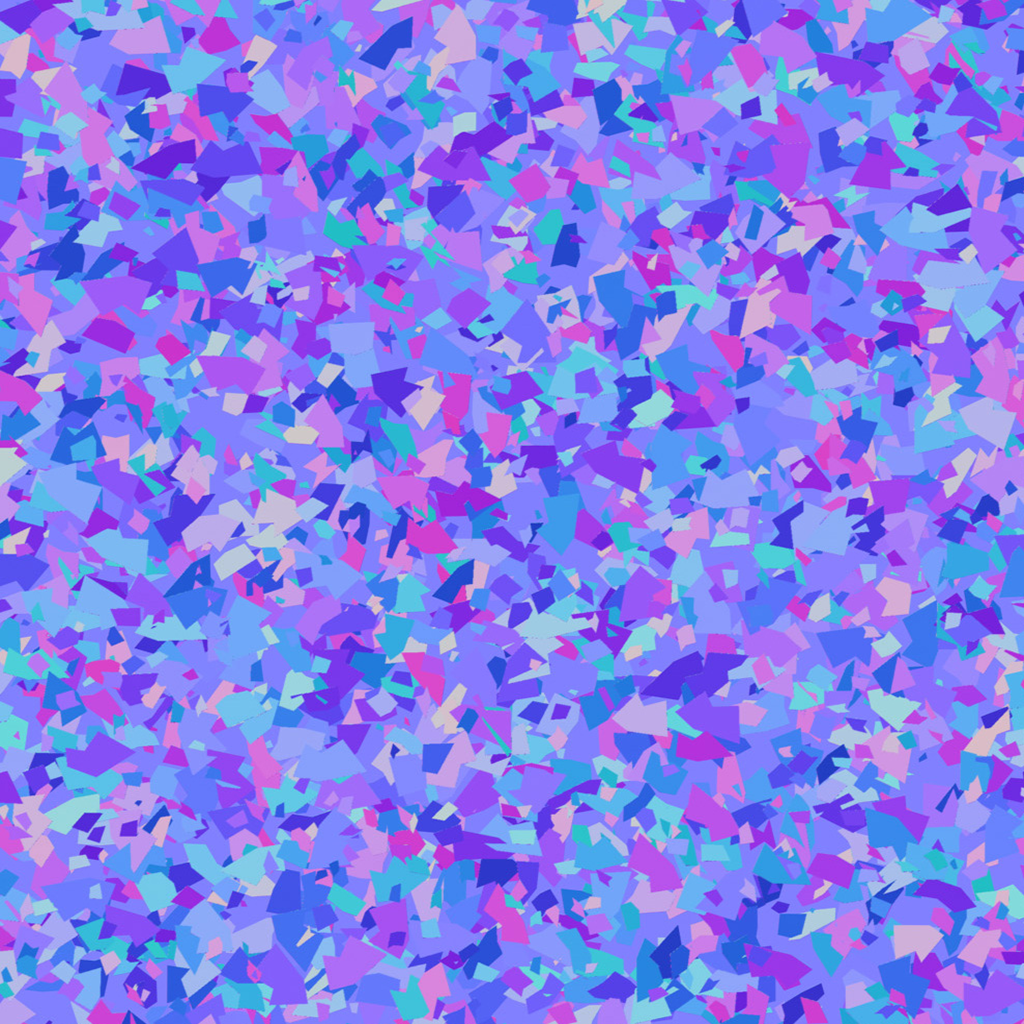
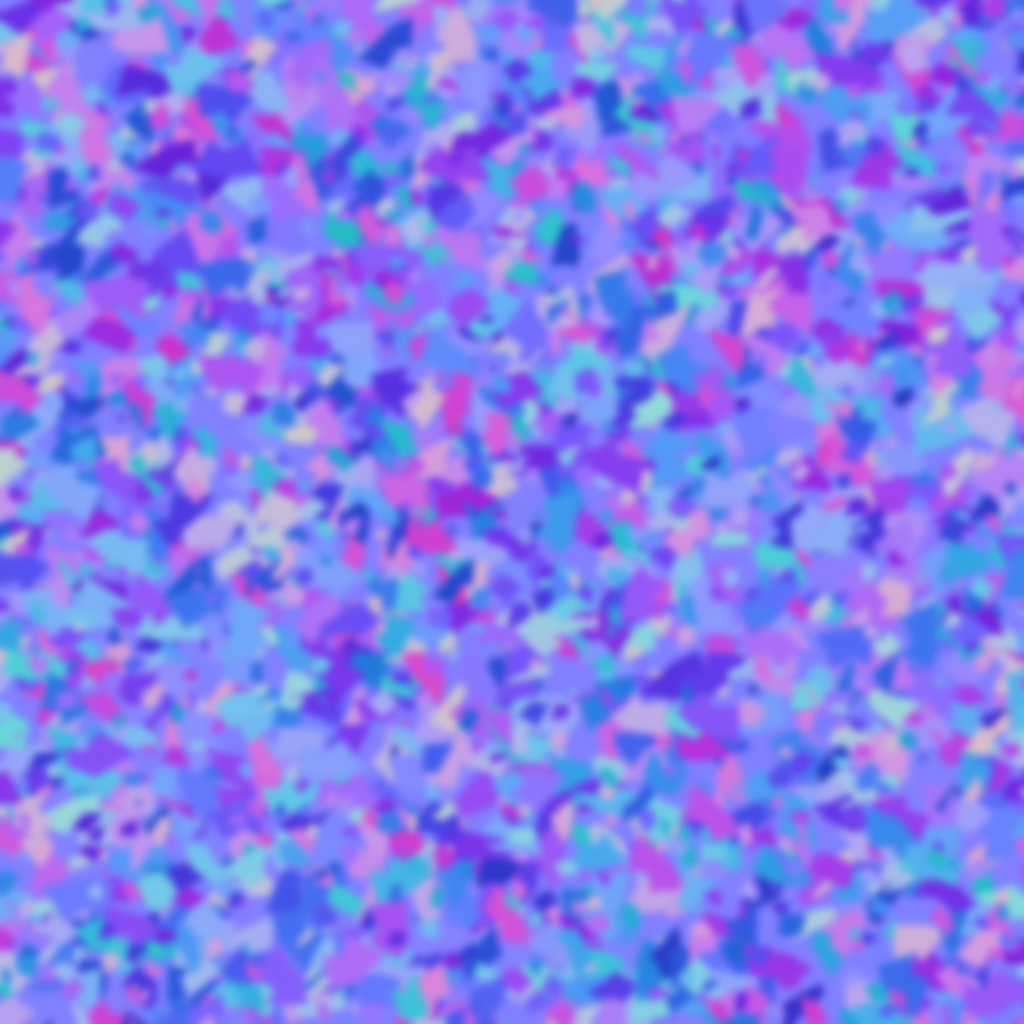
+ Outputs, fixes

diff --git a/ndf/ndf/ndf/main.cpp b/ndf/ndf/ndf/main.cpp
@@ -194,8 +194,9 @@ void RenderJacobian(sf::Image& image, sf::Image& normalMap, int width, int heigh
 
 void CurvedElementsIntegrationThread(int threadNumber, int bucketHeight, int width, int height, int mX, int mY, GaussianElementData * gaussians, float * ndf)
 {
-	glm::vec2 regionSize = glm::vec2(12, 12);
-	glm::vec2 from = glm::vec2(64, 64);	
+	glm::vec2 regionCenter = glm::vec2(256, 256);
+	glm::vec2 regionSize = glm::vec2(256, 256);
+	glm::vec2 from = regionCenter - regionSize * .5f;
 
 	float footprintRadius = regionSize.x * .5f / (float)mX;
 	float sigmaP = footprintRadius * .5f;
@@ -206,7 +207,7 @@ void CurvedElementsIntegrationThread(int threadNumber, int bucketHeight, int wid
 	pcg32 generator;
 	generator.seed(14041956 + threadNumber * 127361);
 
-	int samplesPerPixel = 16;
+	int samplesPerPixel = 8;
 
 	int fromY = bucketHeight * threadNumber;
 	int toY = glm::min(bucketHeight * (threadNumber + 1), height);
@@ -271,7 +272,7 @@ void CurvedElementsIntegrationThread(int threadNumber, int bucketHeight, int wid
 				}
 			}
 
-			accum /= (mX / (float)regionSize.x) * .85f;
+			accum /= (mX / (float)regionSize.x) * .8f;
 			accum /= samplesPerPixel;
 
 			ndf[y * width + x] = accum;
@@ -666,8 +667,8 @@ sf::Image TestFlatland()
 
 sf::Image Test4D(std::string normalMapFilename)
 {
-	int width = 512;
-	int height = 512;
+	int width = 256;
+	int height = 256;
 
 	// Intrinsic roughness
 	float sigmaR = .005f;
@@ -694,7 +695,7 @@ int main()
 	sf::RenderWindow window(sf::VideoMode(width, height), "NDF Estimator");
 	sf::RectangleShape background(sf::Vector2f(width, height));
 
-	std::string filename("scratches.png");
+	std::string filename("normal5.png");
 
 	NaiveEstimator estimator("images/" + filename);
 
